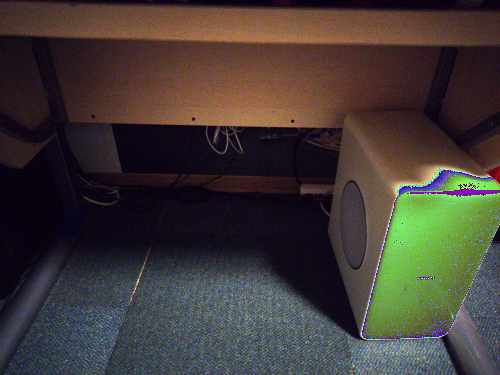
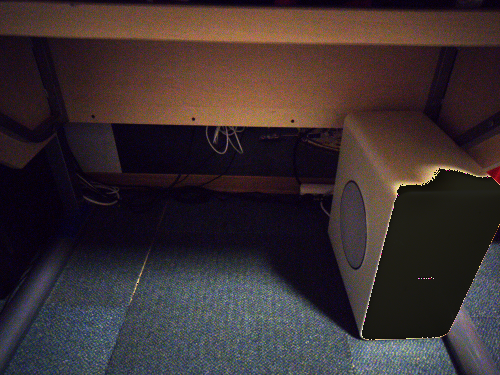
prot updated

Changed region(s): [[0.72, 0.44, 1.0, 0.9093]]

diff --git a/_VirtualSensor.py b/_VirtualSensor.py
@@ -81,22 +81,11 @@ for y in range( pixel_h ):
 				tmp_tmp_gesR, tmp_tmp_gesG, tmp_tmp_gesB = tmp_tmp_gesR + tmp_gesR, tmp_tmp_gesG + tmp_gesG, tmp_tmp_gesB + tmp_gesB
 		
 		#too bright protect
-		if(prot==False):
-			newimgarray[y][x][0] = tmp_tmp_gesR
-			newimgarray[y][x][1] = tmp_tmp_gesG
-			newimgarray[y][x][2] = tmp_tmp_gesB
-		elif(tmp_tmp_gesR > 255):
-			newimgarray[y][x][0] = tmp_tmp_gesR / faktor
-			newimgarray[y][x][1] = tmp_tmp_gesG / faktor
-			newimgarray[y][x][2] = tmp_tmp_gesB / faktor
-		elif(tmp_tmp_gesG > 255):
-			newimgarray[y][x][0] = tmp_tmp_gesR / faktor
-			newimgarray[y][x][1] = tmp_tmp_gesG / faktor
-			newimgarray[y][x][2] = tmp_tmp_gesB / faktor
-		elif(tmp_tmp_gesB > 255):
-			newimgarray[y][x][0] = tmp_tmp_gesR / faktor
-			newimgarray[y][x][1] = tmp_tmp_gesG / faktor
-			newimgarray[y][x][2] = tmp_tmp_gesB / faktor
+		if((tmp_tmp_gesR or tmp_tmp_gesG or tmp_tmp_gesB) > 255 and prot):
+			newimgarray[y][x][0] = tmp_tmp_gesR / (faktor**2)
+			newimgarray[y][x][1] = tmp_tmp_gesG / (faktor**2)
+			newimgarray[y][x][2] = tmp_tmp_gesB / (faktor**2)
+			protected = True
 		else:
 			newimgarray[y][x][0] = tmp_tmp_gesR
 			newimgarray[y][x][1] = tmp_tmp_gesG
@@ -109,5 +98,7 @@ Image.fromarray((newimgarray).astype('uint8'), mode='RGB').save(str(name)+'_x'+s
 end_time = time.time()
 ####
 print("Time Elapsed: "+str(end_time-start_time)+"s")
+print("Protected: "+str(protected))
+
 print("Done...")
 input()
